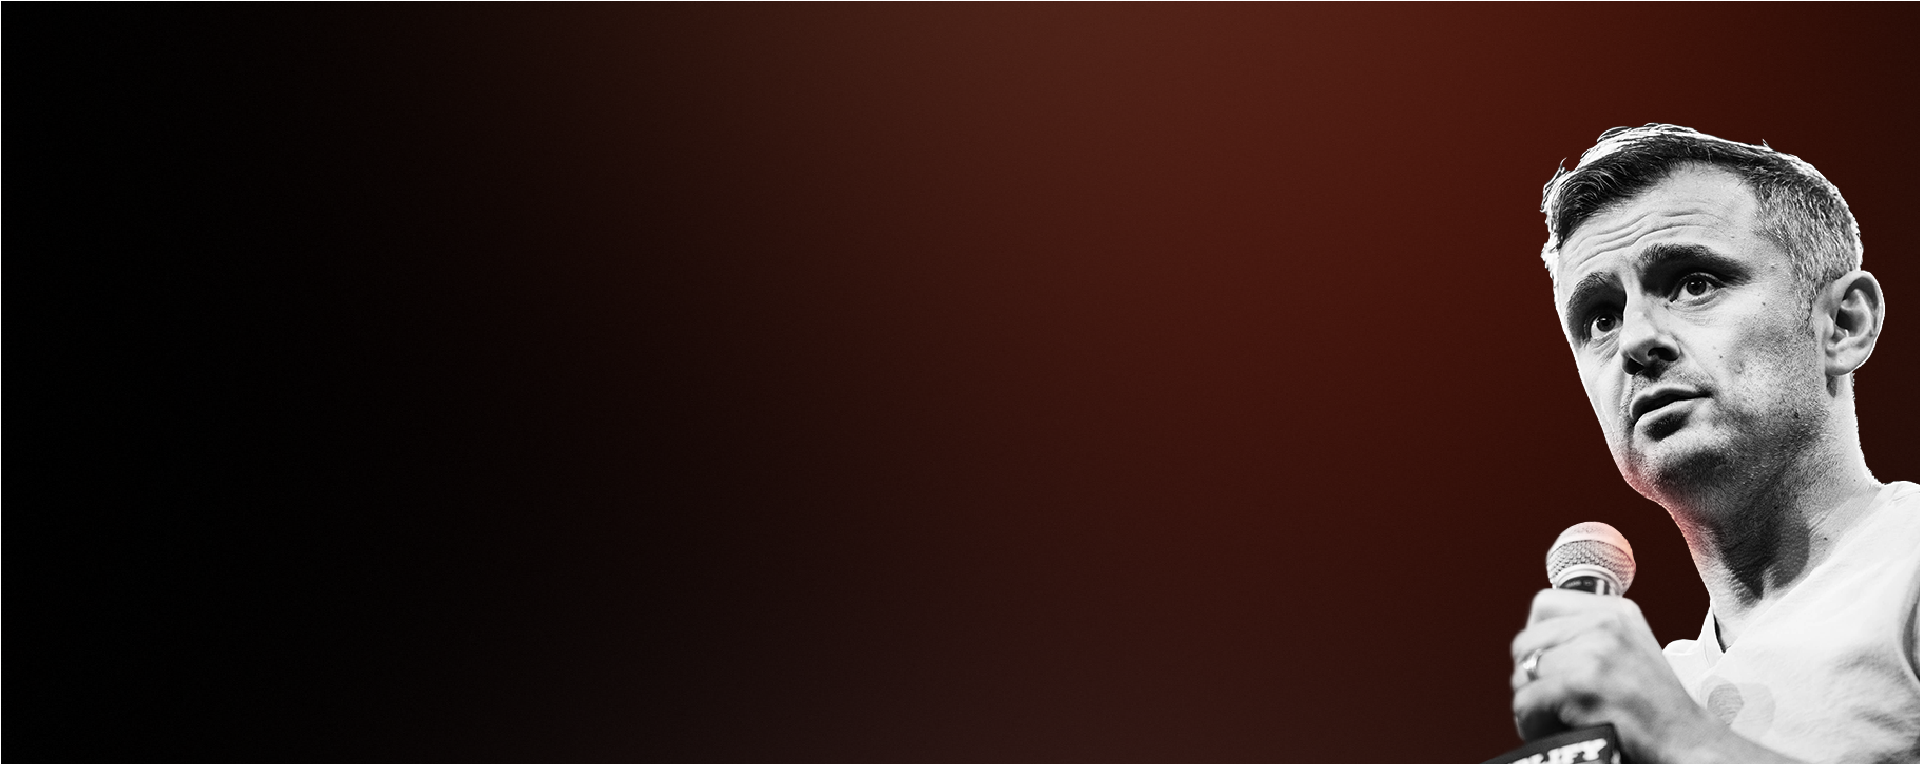
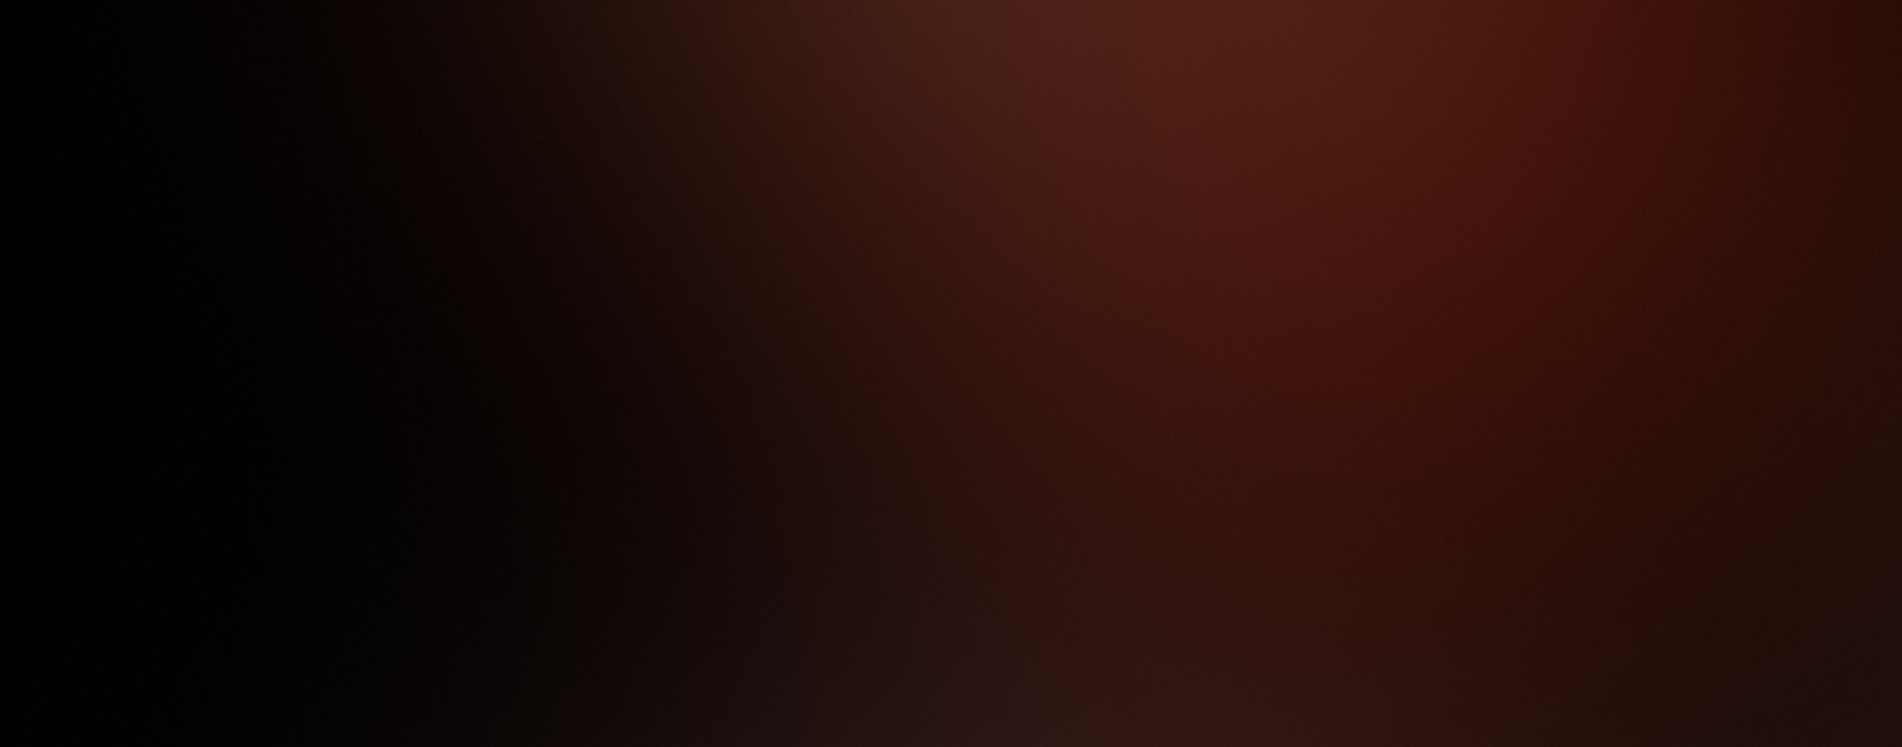
delete img

Changed region(s): [[0.7755, 0.1539, 1.0, 1.0]]

diff --git a/dziekuje.html b/dziekuje.html
@@ -1,0 +1,207 @@
+<!DOCTYPE html>
+<html lang="pl-PL" prefix="og: http://ogp.me/ns#">
+	<head>
+		<meta charset="UTF-8">
+		<meta name="viewport" content="width=device-width, initial-scale=1">
+		<title>Wielki Biznesowy Live GaryV w Polsce</title>
+		<link rel="stylesheet" type="text/css" href="css/style.css">
+		<link rel="stylesheet" type="text/css" href="css/bootstrap-grid.min.css">
+    <link rel="stylesheet" type="text/css" href="css/material-design-iconic-font.min.css">
+    <link href="https://fonts.googleapis.com/css?family=Muli:300,600,900|Work+Sans:300,500|Roboto+Slab:400,700" rel="stylesheet">
+		<!-- Global site tag (gtag.js) - Google Analytics -->
+
+		<script async src="https://www.googletagmanager.com/gtag/js?id=UA-117096442-1"></script>
+		<script>
+		window.dataLayer = window.dataLayer || [];
+		function gtag(){dataLayer.push(arguments);}
+		gtag('js', new Date());
+
+		gtag('config', 'UA-117096442-1');
+		</script>
+
+		<!-- Facebook Pixel Code -->
+
+		<script>
+		!function(f,b,e,v,n,t,s){if(f.fbq)return;n=f.fbq=function(){n.callMethod?
+		n.callMethod.apply(n,arguments):n.queue.push(arguments)};if(!f._fbq)f._fbq=n;
+		n.push=n;n.loaded=!0;n.version='2.0';n.queue=[];t=b.createElement(e);t.async=!0;
+		t.src=v;s=b.getElementsByTagName(e)[0];s.parentNode.insertBefore(t,s)}(window,
+		document,'script','https://connect.facebook.net/en_US/fbevents.js');
+
+		fbq('init', '687511681322429');
+		fbq('track', "PageView");</script>
+
+		<noscript><img height="1" width="1" style="display:none" src="https://www.facebook.com/tr?id=687511681322429&ev=PageView&noscript=1" /></noscript>
+		<!-- End Facebook Pixel Code -->
+
+		<!-- Yandex.Metrika counter -->
+
+		<script type="text/javascript" >
+		(function (d, w, c) {
+		(w[c] = w[c] || []).push(function() {
+		try {
+		w.yaCounter48459869 = new Ya.Metrika({
+		id:48459869,
+		clickmap:true,
+		trackLinks:true,
+		accurateTrackBounce:true,
+		webvisor:true
+		});
+		} catch(e) { }
+		});
+
+				var n = d.getElementsByTagName("script")[0],
+						s = d.createElement("script"),
+						f = function () { n.parentNode.insertBefore(s, n); };
+				s.type = "text/javascript";
+				s.async = true;
+				s.src = "https://mc.yandex.ru/metrika/watch.js";
+
+				if (w.opera == "[object Opera]") {
+						d.addEventListener("DOMContentLoaded", f, false);
+				} else { f(); }
+		})(document, window, "yandex_metrika_callbacks");
+		</script>
+
+		<noscript><div><img src="https://mc.yandex.ru/watch/48459869" style="position:absolute; left:-9999px;" alt="" /></div></noscript>
+		<!-- /Yandex.Metrika counter -->
+
+		<script type="text/javascript" src="https://addevent.com/libs/atc/1.6.1/atc.min.js" async defer></script>
+
+	</head>
+
+	<body>
+
+
+		<main>
+      <section class="header-section-thx">
+        <div class="container-1220">
+          <div class="row">
+            <div class="col-lg-2 col-md-3 col-sm-12 margin-top-25">
+              <a href="http://www.wbexp.pl/" target="_blank">
+                <img src="img/logo-wbe.png" class="logo">
+              </a>
+            </div>
+
+          </div>
+					<div class="row">
+            <div class="col-lg-12 margin-top-header">
+              <h1>Dobry wybór!<br>
+							Świetnie, że jesteś z nami</h1>
+							<div title="Dodaj do kalendarza" class="button btn-left addeventatc">
+								Dodaj do kalendarza
+										<span class="start">04/24/2018 07:00 PM</span>
+										<span class="end">04/24/2018 09:00 PM</span>
+										<span class="timezone">Europe/Warsaw</span>
+										<span class="title">Wielki Biznesowy Live GaryV w Polsce</span>
+							</div>
+            </div>
+          </div>
+        </div>
+      </section>
+
+			<section class="section-box">
+				<div class="container-750">
+					<div class="row">
+						<div class="col-lg-12 text-center bg-none">
+						<h2 class="text-red">JAK SIĘ PRZYGOTOWAĆ?</h2>
+						</div>
+
+            <div class="col-lg-12 text-center">
+							<h3>
+								Zapisz
+							</h3>
+							<p>
+Datę i godzinę 24.04.2018 | 19:00 w kalendarzu lub ustaw przypomnienie na komórce — nie chcesz tego przegapić!							</p>
+
+            </div>
+						<div class="col-lg-12 text-center col-button">
+							<div title="Dodaj do kalendarza" class="button text-tiny button-box addeventatc">
+								Dodaj do kalendarza
+										<span class="start">04/24/2018 07:00 PM</span>
+										<span class="end">04/24/2018 09:00 PM</span>
+										<span class="timezone">Europe/Warsaw</span>
+										<span class="title">Wielki Biznesowy Live GaryV w Polsce</span>
+							</div>
+						</div>
+
+						<div class="col-lg-12 text-center">
+							<h3>
+								Zarezerwuj
+							</h3>
+							<p>
+Około 2 godziny czasu pełnej uwagi - zadbaj o to, by nikt Ci w tym czasie nie przeszkadzał, ani nie rozpraszał.							</p>
+
+            </div>
+
+						<div class="col-lg-12 text-center">
+							<h3>
+								Przygotuj
+							</h3>
+							<p>
+Coś do robienia notatek. Na pewno Ci się przydadzą później, jeśli coś szczególnie będziesz chciał sobie utrwalić.							</p>
+            </div>
+
+						<div class="col-lg-12 text-center">
+							<h3>
+								Zaglądaj
+							</h3>
+							<p>
+Do swojej poczty e-mail — dostaniesz ode mnie dodatkowe wiadomości. Nie chcę żebyś je przegapił.							</p>
+            </div>
+
+						<div class="col-lg-12 text-center">
+							<h3>
+							Pojaw się
+							</h3>
+							<p>
+Na szkoleniu z otwartym umysłem i motywacją do działania. Do zobaczenia wkrótce!							</p>
+            </div>
+
+						</div>
+					</div>
+				</div>
+			</section>
+
+		</main>
+		<footer class="text-white">
+			<div class="container-1440">
+				<div class="row">
+					<div class="col-lg-2">
+						<a href="http://www.wbexp.pl/" target="_blank">
+							<img src="img/logo1.png" class="img-fluid-mobile">
+						</a>
+					</div>
+					<div class="col-lg-2">
+						<a href="https://www.onet.pl/" target="_blank">
+							<img src="img/logo2.png" class="img-fluid-mobile">
+						</a>
+					</div>
+					<div class="col-lg-2">
+						<a href="https://www.forbes.pl/" target="_blank">
+							<img src="img/logo3.png" class="img-fluid-mobile">
+						</a>
+					</div>
+					<div class="col-lg-6">
+						<p class="footer-info">
+
+							&copy; <a href="http://www.milewskipartnerzy.pl/" target="_blank">2018 Malewski & Partnerzy</a> | <a href="http://www.wbexp.pl/regulamin/" target="_blank">Regulamin</a> | <a href="http://sklep.milewskipartnerzy.pl/policy/" target="_blank">Polityka prywatności</a>
+						</p>
+					</div>
+					</div>
+				</div>
+		</footer>
+
+		<div id="zapisz-sie" class="overlay">
+			<div class="popup">
+				<h2>Tytuł</h2>
+				<a class="close" href="#zamknij">&times;</a>
+				<div class="content">
+					Tutaj będzie formularz
+				</div>
+			</div>
+		</div>
+
+		<script src="js/jquery-3.2.1.min.js"></script>
+	</body>
+</html>
